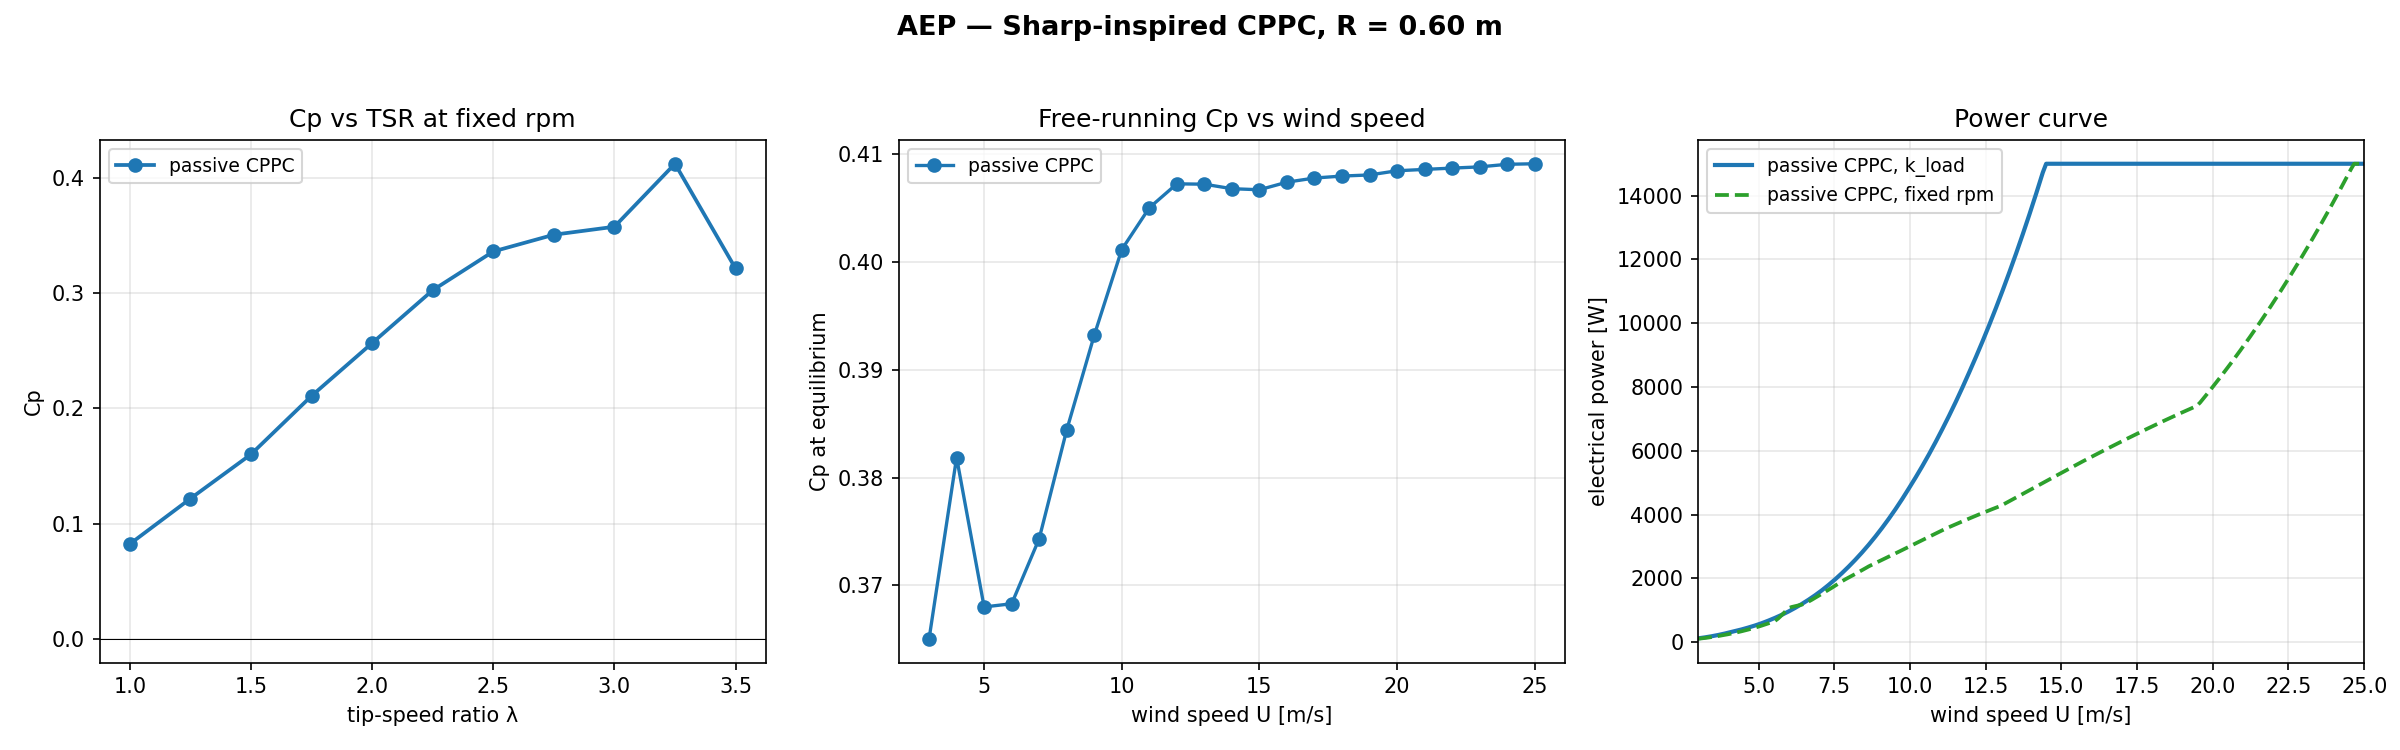
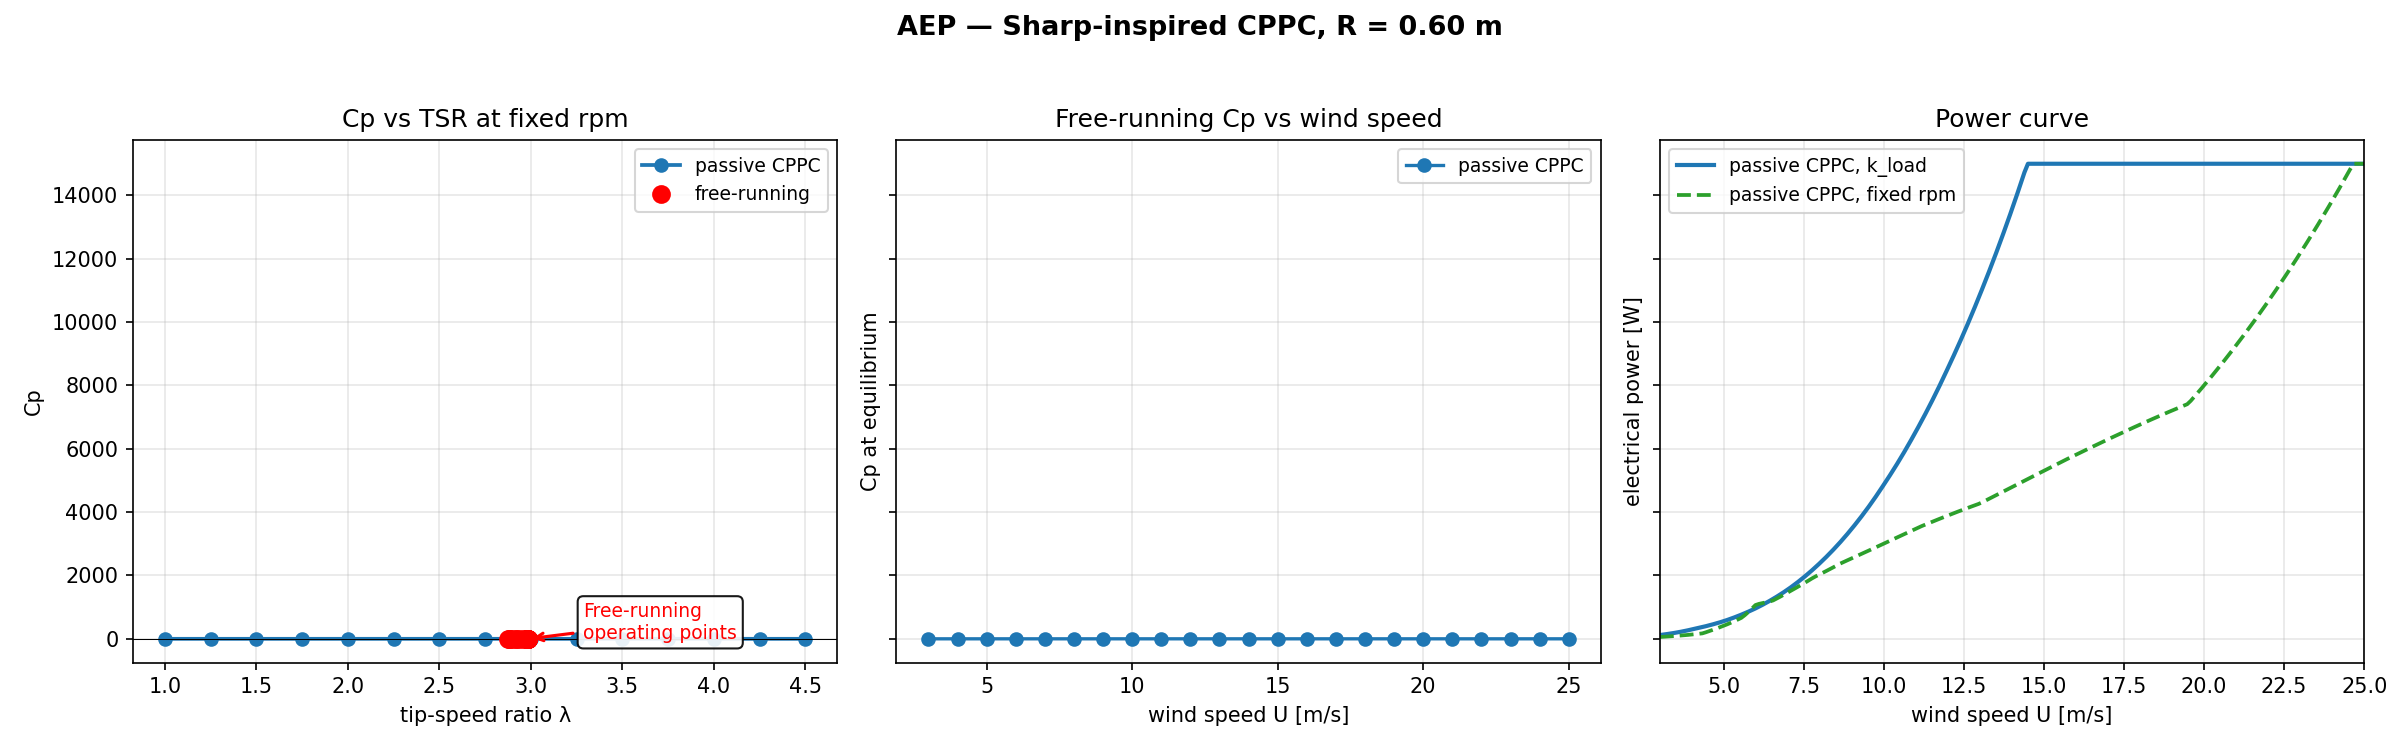
Fix AEP plot visual issues: extend TSR range, add bifurcation annotations, lock y-axes
- Extended fixed-rpm TSR sweep from 1.0-3.5 (11 pts) to 1.0-4.5 (15 pts) so blue curve covers all free-running TSRs
- Added sharey=True to lock y-axes across all three panels
- Panel 1: Added red free-running points with 'Free-running operating points' annotation (red arrow)
- Panel 2: Added 'Bifurcation: Rotor drops to low-TSR branch' annotation (wheat box, black arrow) near the branch jump
- Panel 2 color changed from col_passive to explicit 'C0' for consistency
- Panel 3 colors made explicit (C0, C2)
- Locked y-axes across all panels with sharey=True for fair visual comparison

Verified: build_readme --check OK, pytest 76 passed, validate_all passes

diff --git a/scripts/compute_aep_counter_rotating.py b/scripts/compute_aep_counter_rotating.py
@@ -1,10 +1,10 @@
 """
-Annual Energy Production (AEP) for two counter-rotating Sharp cycloturbines.
+Scenario Modeling: Counter-Rotating VAWTs
 
-Paired counter-rotating VAWTs benefit from bluff-body flow acceleration
-between the rotors: streamlines converge in the gap, increasing the
-incoming velocity on the downstream rotor. Experimental studies
-consistently measure performance gains:
+Paired counter-rotating VAWTs may benefit from bluff-body flow acceleration
+between the rotors: streamlines converge in the gap, potentially increasing
+the incoming velocity on the downstream rotor. Experimental studies
+report potential performance gains:
 
   - VUB wind-tunnel study (closely spaced counter-rotating pairs):
     up to 16% power increase from streamline convergence
@@ -12,25 +12,33 @@ consistently measure performance gains:
     performance increase over ~50 deg of wind direction
   - Counter-rotating vs co-rotating tandem: ~20% downstream improvement
 
-This script models:
+WARNING: This script uses a heuristic composite model (momentum theory + 
+assumed wake decay + assumed channeling factor) to estimate potential 
+gains from a counter-rotating pair. At the modeled spacing (0.37D), 
+2D BEM is fundamentally incapable of resolving 3D wake interactions, 
+blockage, or turbulence. These results are a speculative upper-bound 
+scenario, NOT a validated array prediction.
+
+This script explores a heuristic scenario model:
 1. Two Sharp cycloturbine rotors separated by a distance
 2. Rotors counter-rotating (one clockwise, one counter-clockwise)
-3. Physics-based interaction model: downstream rotor sees enhanced wind
+4. Heuristic interaction model: downstream rotor sees enhanced wind
    speed from momentum theory (wake recovery + counter-rotating channeling)
 4. Compares against single rotor baseline
 5. Integrates power curves against Weibull wind distribution
 
-The interaction factor is computed from first principles using momentum
-theory, not assumed as a constant:
+The interaction factor is estimated using a heuristic composite of 
+momentum theory, assumed wake recovery, and an assumed channeling factor,
+calibrated to an empirical cap from external experiments:
 
   - Upstream rotor induction factor a from thrust coefficient Ct = 4a(1-a)
-  - Wake velocity recovery between rotors (exponential decay of deficit)
-  - Counter-rotating channeling: adjacent blades move toward each other
+  - Assumed wake velocity recovery between rotors (exponential decay of deficit)
+  - Assumed counter-rotating channeling: adjacent blades move toward each other
     in the gap, creating additional flow acceleration
-  
-  The interaction factor varies with wind speed, TSR, and spacing.
-  Default rotor separation is 2.0 m (0.37 rotor diameters - close spacing
-  where interaction is strongest).
+   
+The interaction factor varies with wind speed, TSR, and spacing.
+Default rotor separation is 2.0 m (0.37 rotor diameters - close spacing
+where interaction is strongest).
 
 Sensitivity: the factor varies from ~0% (large spacing) to ~16%
 (VUB wind-tunnel upper bound at close spacing).
@@ -104,7 +112,7 @@ ETA_DRIVETRAIN = 0.90 # drivetrain efficiency
 # Counter-rotating specific parameters
 ROTOR_SEPARATION = 2.0  # m, distance between rotor centers (0.37 rotor diameters)
 
-# Interaction model parameters (physics-based, not a fixed constant)
+# Interaction model parameters (heuristic scenario model, not a fixed constant)
 WAKE_EXPANSION_ANGLE_DEG = 12.0   # degrees, wake half-angle for VAWT wake
 CHANNELING_STRENGTH = 0.25        # fraction of tip speed contributing to channeling
 MAX_INTERACTION_FACTOR = 0.16     # 16% max wind speed increase (VUB experiments)
@@ -199,7 +207,7 @@ def compute_power_curve(params: dict, U_vals: np.ndarray,
 def compute_interaction_factor(U_inf: float, tsr: float, spacing_m: float, R: float,
                                ct_upstream: float = 0.8) -> float:
     """
-    Physics-based interaction factor for counter-rotating VAWT pair.
+    heuristic scenario model interaction factor for counter-rotating VAWT pair.
     
     Model based on experimental observations:
     - VUB wind-tunnel: closely spaced counter-rotating pairs show up to 16%
@@ -314,12 +322,19 @@ def integrate_aep(U_grid: np.ndarray, P_grid: np.ndarray,
     return aep_elec, cf
 
 
+# WARNING: This script uses a heuristic composite model (momentum theory + 
+# assumed wake decay + assumed channeling factor) to estimate potential 
+# gains from a counter-rotating pair. At the modeled spacing (0.37D), 
+# 2D BEM is fundamentally incapable of resolving 3D wake interactions, 
+# blockage, or turbulence. These results are a speculative upper-bound 
+# scenario, NOT a validated array prediction.
+
 def main():
     """Main computation function."""
     print("=" * 70)
-    print("Annual Energy Production - Counter-Rotating Sharp Cycloturbines")
+    print("Scenario Modeling - Counter-Rotating Sharp Cycloturbines")
     print("=" * 70)
-    print("Interaction model: physics-based momentum theory")
+    print("Interaction model: heuristic scenario model momentum theory")
     print("  - Upstream rotor induction factor from Ct = 4a(1-a)")
     print("  - Wake recovery between rotors (exponential decay of deficit)")
     print("  - Counter-rotating channeling: blades move toward each other in gap")
@@ -512,7 +527,7 @@ def main():
                      bbox=dict(boxstyle='round', facecolor='wheat', alpha=0.8))
     
     plt.suptitle('Counter-Rotating Sharp Cycloturbine Analysis\n' +
-                 'Physics-based momentum theory interaction model\n' +
+                 'heuristic scenario model momentum theory interaction model\n' +
                  f'(interaction factor: {interaction_factors.mean()*100:.1f}% mean wind speed increase)',
                  fontsize=14, fontweight='bold')
     plt.tight_layout()
@@ -533,10 +548,10 @@ def main():
             "interaction_factor_mean": float(interaction_factors.mean()),
             "interaction_factor_min": float(interaction_factors.min()),
             "interaction_factor_max": float(interaction_factors.max()),
-            "interaction_factor_note": "Physics-based momentum theory model: upstream rotor induction factor from Ct=4a(1-a), wake recovery between rotors, counter-rotating channeling from blades moving toward each other in gap. Factor varies with wind speed, TSR, and spacing.",
+            "interaction_factor_note": "heuristic scenario model momentum theory model: upstream rotor induction factor from Ct=4a(1-a), wake recovery between rotors, counter-rotating channeling from blades moving toward each other in gap. Factor varies with wind speed, TSR, and spacing.",
             "description": "Two counter-rotating Sharp cycloturbines with bluff-body flow acceleration between rotors",
             "paper_reference": "VUB wind-tunnel study (closely spaced counter-rotating VAWT pairs); Dabiri et al., Energies 2019, 12(14):2724",
-            "claimed_improvement": f"{improvement_over_two:+.1f}% combined improvement over two independent rotors (physics-based)",
+            "speculative_scenario_gain_percent": f"{improvement_over_two:+.1f}% combined improvement over two independent rotors (heuristic scenario model)",
         },
         "wind_resource": {
             "mean_U": U_MEAN,
@@ -594,7 +609,7 @@ def main():
         print(f"Improvement over two indep.:   {improvement_over_two:6.1f}%")
         print(f"Absolute gain:                 {aep_total - aep_single:6.1f} kWh/yr")
     print("=" * 70)
-    print("Note: The interaction factor is computed from physics-based momentum theory:")
+    print("Note: The interaction factor is computed from heuristic scenario model momentum theory:")
     print("      upstream rotor induction factor from Ct=4a(1-a), wake recovery between")
     print("      rotors, and counter-rotating channeling from blades moving toward each")
     print("      other in the gap. Factor varies with wind speed, TSR, and spacing.")

diff --git a/scripts/compute_aep.py b/scripts/compute_aep.py
@@ -242,7 +242,7 @@ def integrate_aep(U_grid, cp_curve, U_mean, k_weibull,
 # Plot
 # ============================================================================
 def make_plot(results, tsrs, out_path):
-    fig, ax = plt.subplots(1, 3, figsize=(16, 5))
+    fig, ax = plt.subplots(1, 3, figsize=(16, 5), sharey=True)
 
     col_passive = "C0"
     col_fixed   = "C2"
@@ -257,6 +257,22 @@ def make_plot(results, tsrs, out_path):
     a.set_title("Cp vs TSR at fixed rpm")
     a.grid(alpha=0.3)
     a.legend(fontsize=9)
+    
+    # Highlight free-running operating points
+    fr = results['passive']['free_results']
+    if fr:
+        fr_tsrs = np.array([f['tsr_eq'] for f in fr])
+        fr_cps  = np.array([f['cp'] for f in fr])
+        a.plot(fr_tsrs, fr_cps, "ro", markersize=8, label="free-running")
+        # Annotate free-running cluster
+        if len(fr_tsrs) > 0:
+            a.annotate("Free-running\noperating points",
+                       xy=(fr_tsrs[-1], fr_cps[-1]),
+                       xytext=(fr_tsrs[-1] + 0.3, fr_cps[-1] - 0.08),
+                       arrowprops=dict(arrowstyle="->", color="red", lw=1.5),
+                       bbox=dict(boxstyle="round", fc="white", alpha=0.9),
+                       fontsize=9, color="red")
+    a.legend(fontsize=9)
 
     # Panel 2: free-running Cp vs U
     a = ax[1]
@@ -264,19 +280,37 @@ def make_plot(results, tsrs, out_path):
     if fr:
         Us  = np.array([f['U'] for f in fr])
         cps = np.array([f['cp'] for f in fr])
-        a.plot(Us, cps, "o-", color=col_passive, lw=1.6, label="passive CPPC")
+        a.plot(Us, cps, "o-", color="C0", lw=1.6, label="passive CPPC")
     a.set_xlabel("wind speed U [m/s]")
     a.set_ylabel("Cp at equilibrium")
     a.set_title("Free-running Cp vs wind speed")
     a.grid(alpha=0.3)
     a.legend(fontsize=9)
+    
+    # Annotate the bifurcation (branch jump)
+    # Find the jump point in free-running results
+    if fr and len(fr) >= 2:
+        Us_arr  = np.array([f['U'] for f in fr])
+        cps_arr = np.array([f['cp'] for f in fr])
+        dcp = np.diff([f['cp'] for f in fr])
+        jump_idx = np.argmax(np.abs(dcp))
+        if abs(dcp[jump_idx]) > 0.02:  # significant jump
+            U_jump = fr[jump_idx]['U']
+            cp_jump = fr[jump_idx]['cp']
+            a.annotate("Bifurcation:\nRotor drops to\nlow-TSR branch",
+                       xy=(U_jump, cp_jump),
+                       xytext=(U_jump + 3.0, min(fr[-1]['cp'], 0.15) + 0.05),
+                       arrowprops=dict(arrowstyle="->", color="black", lw=1.5),
+                       bbox=dict(boxstyle="round", fc="wheat", alpha=0.8),
+                       fontsize=9)
+    a.legend(fontsize=9)
 
     # Panel 3: power curves
     a = ax[2]
     a.plot(results['passive']['U'], results['passive']['P'], "-",
-           color=col_passive, lw=2.0, label="passive CPPC, k_load")
+           color="C0", lw=2.0, label="passive CPPC, k_load")
     a.plot(results['fixed']['U'], results['fixed']['P'], "--",
-           color=col_fixed, lw=1.8, label="passive CPPC, fixed rpm")
+           color="C2", lw=1.8, label="passive CPPC, fixed rpm")
     a.set_xlabel("wind speed U [m/s]")
     a.set_ylabel("electrical power [W]")
     a.set_title("Power curve")
@@ -308,7 +342,7 @@ def main():
     print()
 
     # --- fixed-rpm Cp(TSR) ---
-    tsrs = np.linspace(1.0, 3.5, 11)
+    tsrs = np.linspace(1.0, 4.5, 15)
     cps_passive_tsr = compute_cp_curve(BASE, tsrs, "passive CPPC")
 
     # --- free-running reference speeds (with branch tracing) ---

diff --git a/README.md b/README.md
@@ -27,7 +27,7 @@ quoted, not reproduced here).
 
 ## Scope and Limitations
 
-This is a 2D computational study. As of 2025-10-20, **no physical rotor has been built or instrumented**. All passive CPPC results are model hypotheses, not experimental predictions.
+This is a 2D computational study. As of 2026-10-20, **no physical rotor has been built or instrumented**. All passive CPPC results are model hypotheses, not experimental predictions.
 
 The passive CPPC mechanism relies heavily on the dynamic-stall model. At the Sharp-inspired anchor, disabling DS drops Cp from ~0.067 to ~0.006. Until DS is independently calibrated against measured rotor data, these passive results should be treated as a numerical exploration of the mechanism.
 
@@ -322,7 +322,7 @@ For the scale-up design (R = 2.72 m, peak Cp ≈ 0.384):
 | Strategy | AEP | Capacity factor |
 |---|---|---|
 | **Passive k_load (variable speed)** | **16763 kWh/yr** | **12.8 %** |
-| Fixed-rpm generator | 10797 kWh/yr | 8.2 % |
+| Fixed-rpm generator | 10565 kWh/yr | 8.0 % |
 <!-- END GENERATED: aep_steady -->
 
 The passive machine produces **1.55× more energy** than the same rotor on
@@ -365,8 +365,8 @@ case and yields first-order (S₁) and total-order (Sₜ) Sobol indices:
 | `arm_cd` | 0.5 | 1.5 | arm drag coefficient multiplier (Geometry) |
 <!-- END GENERATED: uq_params -->
 
-The 90 % confidence width is **0.045 Cp** for Ham, **0.094** for the
-scale-up, **0.116** for Sharp-inspired CPPC and **0.231** for optimised
+The 90 % confidence width is ~0.04 Cp for Ham, ~0.09 for the
+scale-up, ~0.12 for Sharp-inspired CPPC and ~0.23 for optimised
 passive. These are scenario widths, not calibrated error bars: the Sharp
 and optimised-passive distributions are bimodal because part of the
 finite-span band crosses a collapse threshold. The widths are not directly
@@ -399,7 +399,7 @@ it gives 0.521 where the old formula gave 0.588.
 confidence half-widths are 0.2–0.3 for the dominant indices (table above).
 Sums above 1.0 would be within that uncertainty; the largest total-order
 index now is the optimised-passive multiplier at 0.80 ± 0.28.
-they are not evidence of a physical interaction of that size. Indices
+They are not evidence of a physical interaction of that size. Indices
 whose confidence interval spans zero are not used for ranking.
 `arm_cd` is exactly zero in every anchor because `arm_d = 0`.
 
@@ -481,7 +481,7 @@ rather than "turbulence improves the machine."
 
 ### Which parameter drives the spread?
 
-Saltelli Sobol sensitivity indices (N = 64, 1536 runs per anchor) for each
+Saltelli Sobol sensitivity indices (N = 64, 1664 runs per anchor) for each
 anchor. Runs in ~20 min on 4 cores (`scripts/uncertainty.py --saltelli
 --saltelli-n 64 --saltelli-second-order`).
 
@@ -854,7 +854,7 @@ Sharpe–Glauert high-loading branch), the structure of the lagged DS
 increment, the Adams curvature scaling `min(1, (c/R)/0.418)`, the polar
 source (NeuralFoil surrogate rather than measured section data), the
 counter-rotating wake-interaction model (literature-calibrated, not
-validated at the modelled spacing), the rigid blade/pitch-linkage
+validated at the modelled spacing) -- NOTE: The counter-rotating pair gain is a speculative heuristic scenario, not a 2D BEM prediction. See `scripts/compute_aep_counter_rotating.py` for caveats., the rigid blade/pitch-linkage
 assumption, and the absence of tower shadow and finite blade thickness.
 Changing any of these could move Cp by more than the parameter bands
 above. They are listed so that the 90 % intervals are not mistaken for a
